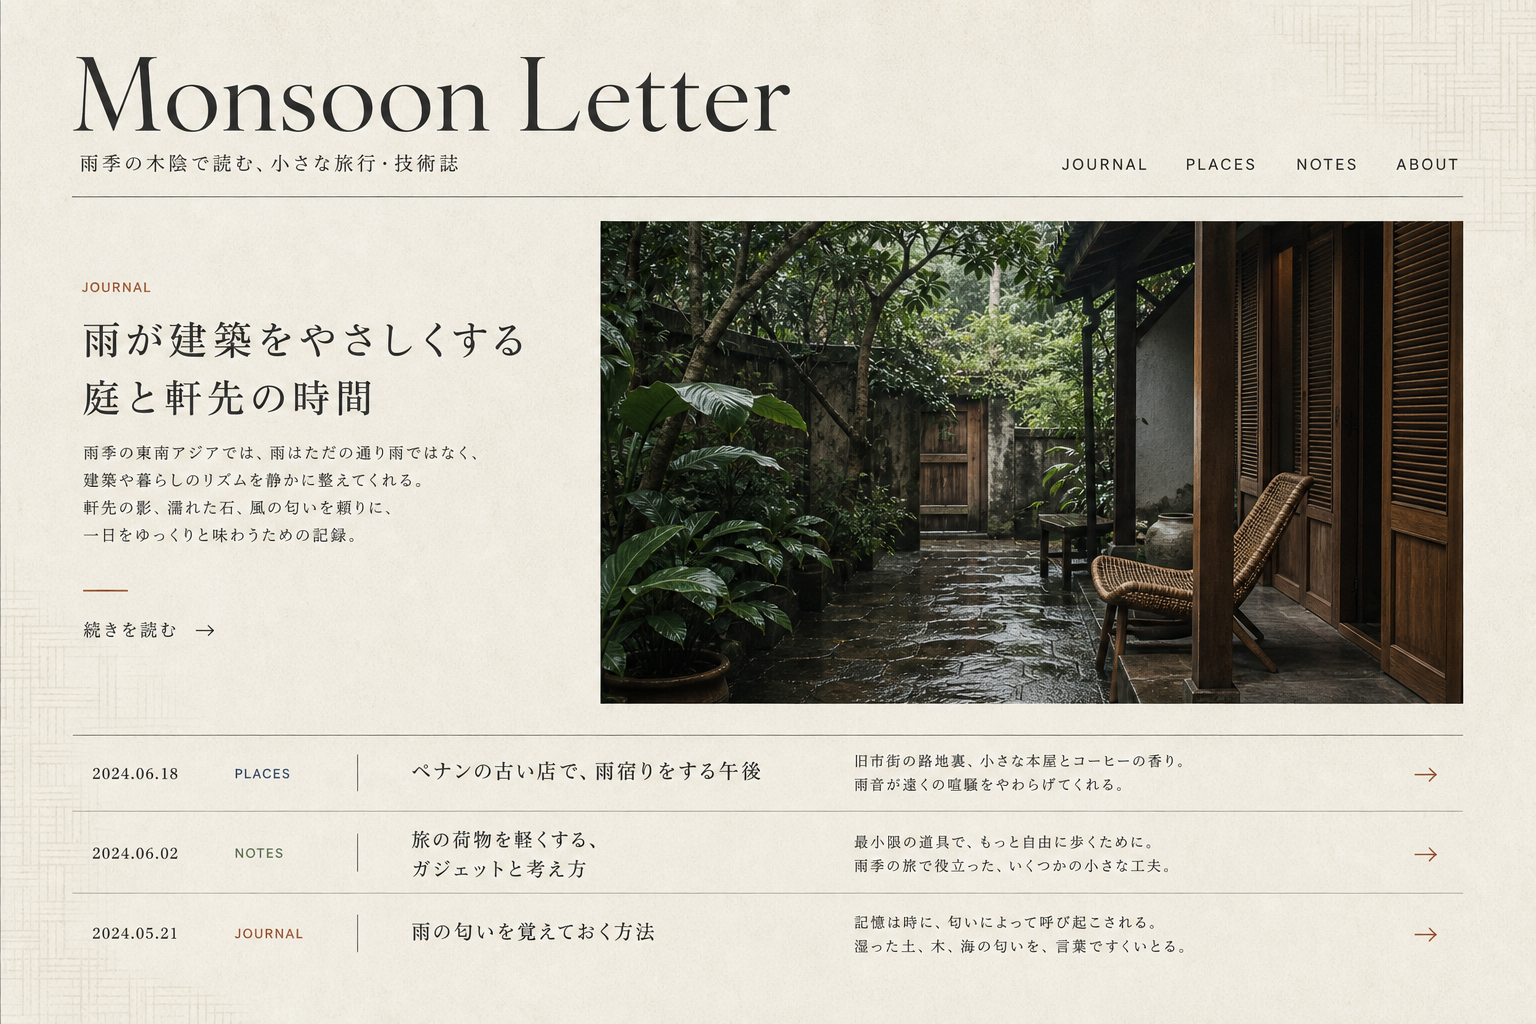
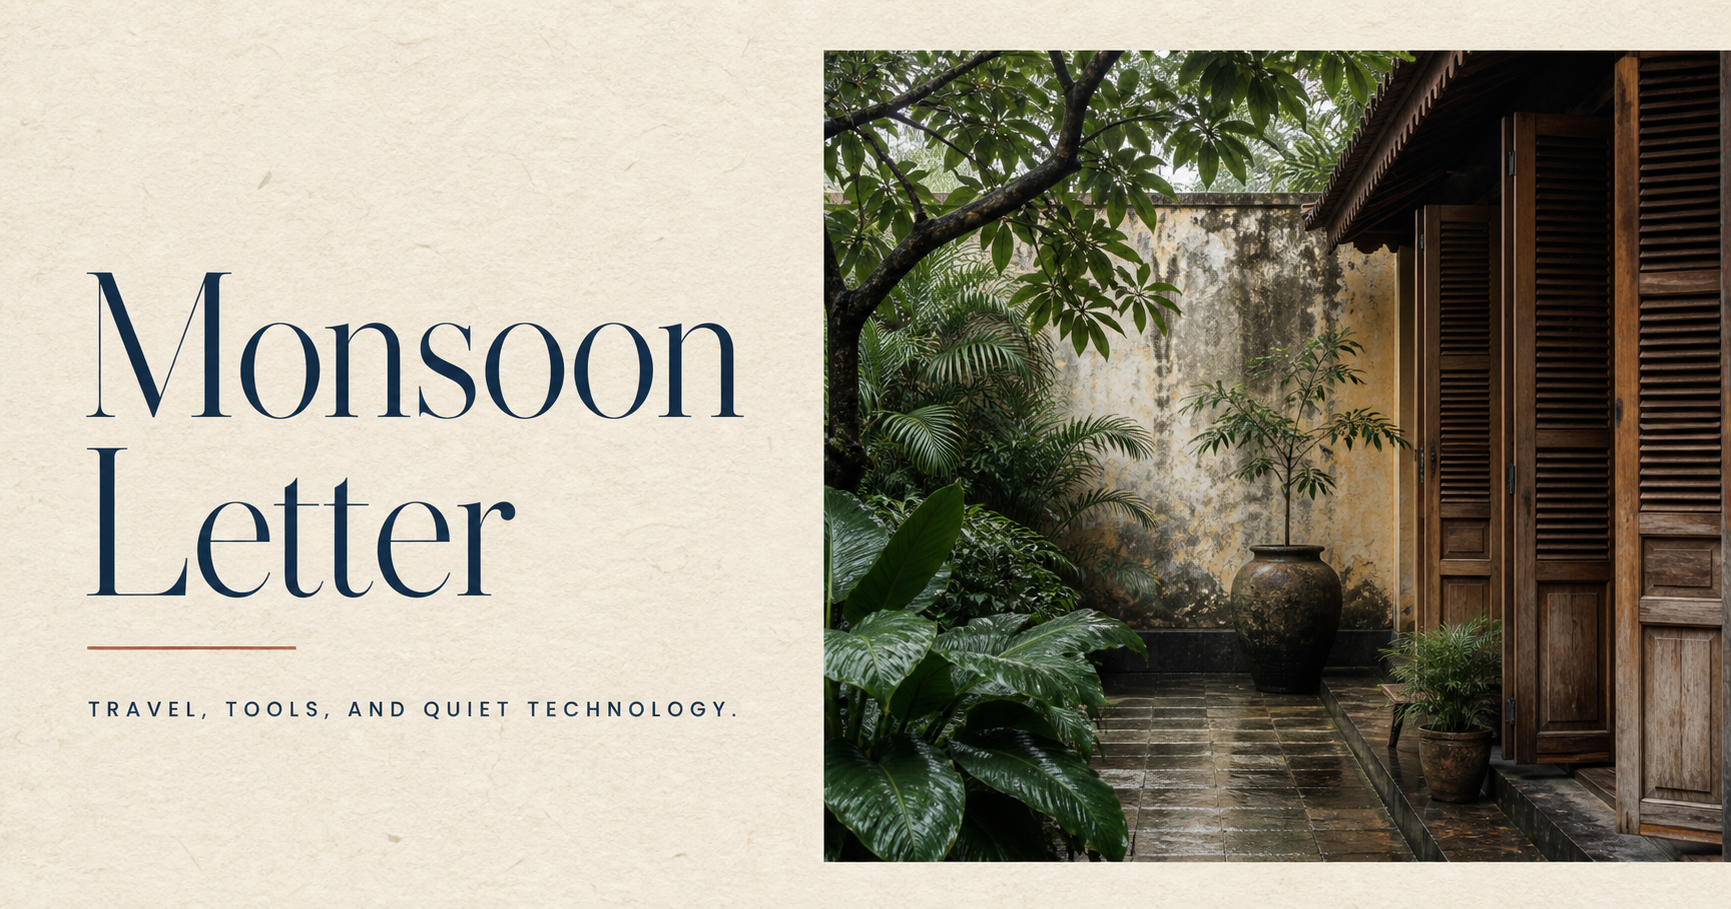
feat: switch site interface to English

diff --git a/src/styles/global.css b/src/styles/global.css
@@ -10,7 +10,7 @@
   --color-line: #bfb7aa;
   --color-line-soft: #d4cdc1;
   --font-display: "Bodoni 72", "Bodoni MT", Didot, "Times New Roman", serif;
-  --font-serif-ja: "Yu Mincho", "Hiragino Mincho ProN", "Noto Serif JP", serif;
+  --font-serif: Georgia, "Yu Mincho", "Hiragino Mincho ProN", "Noto Serif JP", serif;
   --font-sans: Inter, "Hiragino Kaku Gothic ProN", "Yu Gothic", "Noto Sans JP", sans-serif;
   --font-mono: "SFMono-Regular", Consolas, "Liberation Mono", monospace;
 }
@@ -125,7 +125,7 @@ img {
 
 .section-heading p {
   color: var(--color-muted);
-  font-family: var(--font-serif-ja);
+  font-family: var(--font-serif);
   line-height: 2;
   margin: 0;
 }

diff --git a/src/pages/rss.xml.js b/src/pages/rss.xml.js
@@ -6,7 +6,7 @@ export async function GET(context) {
 
   return rss({
     title: "Monsoon Letter",
-    description: "雨季の木陰で読む、小さな旅行・技術誌。",
+    description: "Travel, tools, and quiet technology.",
     site: context.site,
     items: posts.map((post) => ({
       title: post.data.title,
@@ -14,6 +14,6 @@ export async function GET(context) {
       pubDate: post.data.pubDate,
       link: `posts/${post.id}/`,
     })),
-    customData: "<language>ja</language>",
+    customData: "<language>en</language>",
   });
 }

diff --git a/src/lib/posts.ts b/src/lib/posts.ts
@@ -11,13 +11,11 @@ export async function getPublishedPosts(): Promise<BlogPost[]> {
 }
 
 export function formatDate(date: Date): string {
-  return new Intl.DateTimeFormat("ja-JP", {
+  return new Intl.DateTimeFormat("en-US", {
     year: "numeric",
-    month: "2-digit",
+    month: "short",
     day: "2-digit",
-  })
-    .format(date)
-    .replaceAll("/", ".");
+  }).format(date);
 }
 
 export const categoryLabels = {

diff --git a/src/content.config.ts b/src/content.config.ts
@@ -10,6 +10,7 @@ const blog = defineCollection({
     pubDate: z.coerce.date(),
     updatedDate: z.coerce.date().optional(),
     category: z.enum(["journal", "places", "notes"]),
+    language: z.enum(["en", "ja"]).default("en"),
     tags: z.array(z.string()).default([]),
     draft: z.boolean().default(false),
     featured: z.boolean().default(false),

diff --git a/README.md b/README.md
@@ -1,8 +1,8 @@
 # Monsoon Letter
 
-雨季の木陰で読む、小さな旅行・技術誌。
+Travel, tools, and quiet technology.
 
-Astroで静的生成し、GitHub ActionsからGitHub Pagesへ公開する個人ブログです。旅、建築、道具、Web開発について、余白のある編集デザインで記録します。
+A personal editorial blog about travel, architecture, tools, and web development. Astro generates the static site, and GitHub Actions prepares it for GitHub Pages.
 
 ## Stack
 
@@ -18,7 +18,7 @@ pnpm install
 pnpm dev
 ```
 
-本番相当の確認は次のコマンドで行います。
+Run the production checks with:
 
 ```sh
 pnpm build
@@ -27,14 +27,15 @@ pnpm preview
 
 ## Writing
 
-記事は`src/content/blog`へMarkdownとして追加します。公開前の記事にはFront Matterで`draft: true`を指定してください。
+Add articles as Markdown files in `src/content/blog`. Set `draft: true` in the front matter for anything that is not ready to publish.
 
 ```yaml
 ---
-title: 記事タイトル
-description: 記事の概要
+title: Article title
+description: A short summary of the article
 pubDate: 2026-08-11
 category: notes
+language: en
 tags:
   - Astro
 draft: true
@@ -43,10 +44,10 @@ draft: true
 
 ## Deployment
 
-リポジトリのSettings → Pages → Build and deploymentで、Sourceを`GitHub Actions`に設定します。`main`へのpushで自動的にビルド・公開されます。
+The workflow validates every push to `main`. While the repository is private on GitHub Free, it builds the site without attempting a Pages deployment.
 
-通常のプロジェクトリポジトリでは、AstroがGitHub Actions上で`/<repository-name>/`を自動設定します。独自ドメインへ移行するときは、Actionsに`SITE_URL`と`BASE_PATH`を設定してください。
+When the repository becomes public, the `public` event enables GitHub Pages and deploys the site automatically. Astro derives the `/<repository-name>/` base path in GitHub Actions. For a custom domain, provide `SITE_URL` and `BASE_PATH` in Actions.
 
 ## Visual direction
 
-Tropical Modernismと雨季の静けさを組み合わせた、生成り・深緑・チーク・褪せた藍の編集テーマです。ヒーロー画像はこのプロジェクトのためにAIで生成したオリジナル素材です。
+The visual system combines Tropical Modernism with the stillness of monsoon season: rice-paper ivory, rain green, teak, faded indigo, and muted clay. The hero and social artwork are original AI-generated assets created for this project.

diff --git a/src/content/blog/lightweight-dev-environment.md b/src/content/blog/lightweight-dev-environment.md
@@ -3,6 +3,7 @@ title: 旅の荷物を軽くする、開発環境と考え方
 description: 最小限の道具でも仕事を止めないために、ブラウザとGitを中心にした小さな開発環境を考える。
 pubDate: 2026-07-02
 category: notes
+language: ja
 tags:
   - 開発環境
   - Git

diff --git a/src/content/blog/rain-and-architecture.md b/src/content/blog/rain-and-architecture.md
@@ -3,6 +3,7 @@ title: 雨が建築をやさしくする、庭と軒先の時間
 description: 雨季の街では、雨はただの通り雨ではなく、建築や暮らしのリズムを静かに整えてくれる。
 pubDate: 2026-08-11
 category: journal
+language: ja
 tags:
   - 建築
   - 雨季

diff --git a/src/content/blog/penang-rain-shelter.md b/src/content/blog/penang-rain-shelter.md
@@ -3,6 +3,7 @@ title: ペナンの古い店で、雨宿りをする午後
 description: 旧市街の路地裏、小さな本屋とコーヒーの香り。雨音が遠くの喧騒をやわらげてくれる。
 pubDate: 2026-07-18
 category: places
+language: ja
 tags:
   - ペナン
   - 街歩き
